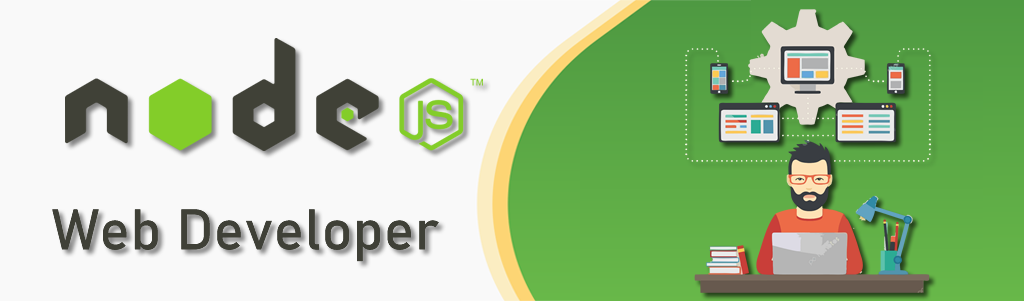
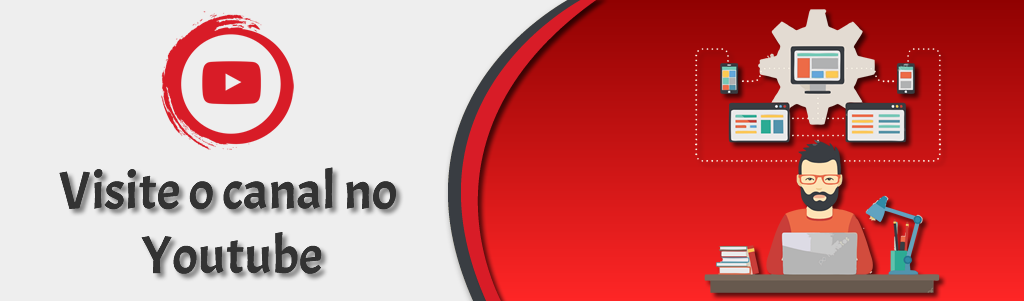
Nova Atualização

diff --git a/index - Copia.html b/index - Copia.html
@@ -1,0 +1,174 @@
+<!DOCTYPE html>
+<html lang="en"> 
+<head>
+    <title>Daniel Correia - Site Oficial</title>
+    
+    <!-- Meta -->
+    <meta charset="utf-8">
+    <meta http-equiv="X-UA-Compatible" content="IE=edge">
+    <meta name="viewport" content="width=device-width, initial-scale=1.0">
+    <meta name="description" content="Blog Template">
+    <meta name="author" content="Xiaoying Riley at 3rd Wave Media">    
+	<link rel="shortcut icon" href="assets/images/profile.png"> 
+    
+    <!-- FontAwesome JS-->
+    <script defer src="https://use.fontawesome.com/releases/v5.7.1/js/all.js" integrity="sha384-eVEQC9zshBn0rFj4+TU78eNA19HMNigMviK/PU/FFjLXqa/GKPgX58rvt5Z8PLs7" crossorigin="anonymous"></script>
+    
+    <!-- Theme CSS -->  
+    <link id="theme-style" rel="stylesheet" href="assets/css/theme-1.css">
+
+</head> 
+
+<body>
+    
+    <header class="header text-center">	    
+        
+	    <nav class="navbar navbar-expand-lg navbar-dark" >
+           
+			<button class="navbar-toggler" type="button" data-toggle="collapse" data-target="#navigation" aria-controls="navigation" aria-expanded="false" aria-label="Toggle navigation">
+			<span class="navbar-toggler-icon"></span>
+			</button>
+
+			<div id="navigation" class="collapse navbar-collapse flex-column" >
+				<div class="profile-section pt-3 pt-lg-0">
+					<a href="" title="Canal no Youtube">
+						<img class="profile-image mb-3 rounded-circle mx-auto" src="assets/images/profile.png" alt="image" >			
+					</a>
+					
+					<div class="bio mb-3">
+						E ae Dev, Meu nome é Daniel. Bem vindo á minha página! Aqui compartilho um pouco da minha experiência com o mundo do código fonte. Fique a vontade para vasculhar o conteúdo!</div>
+					<ul class="social-list list-inline py-3 mx-auto">
+			            <li class="list-inline-item"><a href="#"><i class="fab fa-youtube fa-fw" title="Canal do Youtube"></i></a></li>
+						<li class="list-inline-item"><a href="#"><i class="fab fa-github-alt fa-fw" title="Repositório Github"></i></a></li>
+						<li class="list-inline-item"><a href="http://lattes.cnpq.br/4791966807723722" title="Currículo Lattes"><i class="fas fa-address-book fa-fw"></i></a></li>
+			        </ul><!--//social-list-->
+			        <hr> 
+				</div><!--//profile-section-->
+				
+				<ul class="navbar-nav flex-column text-left">
+					<li class="nav-item active">
+					    <a class="nav-link" href="index.html"><i class="fas fa-home fa-fw mr-2"></i>Home <span class="sr-only">(current)</span></a>
+					</li>
+					<li class="nav-item">
+					    <a class="nav-link" href="blog-post.html"><i class="fab fa-php fa-fw mr-2"></i>Codeigniter 2/4</a>
+					</li>
+					<li class="nav-item">
+					    <a class="nav-link" href="about.html"><i class="fab fa-node-js fa-fw mr-2"></i>NodeJS / ReactJS</a>
+					</li>
+				</ul>
+				
+			</div>
+		</nav>
+    </header>
+    
+    <div class="main-wrapper">
+	    <section class="cta-section theme-bg-light py-5">
+		    <div class="container text-center">
+			    <h2 class="heading">
+					Bem vindo à minha Página Web</h2>
+			    <div class="intro">
+					Inscreva-se também no meu canal no Youtube!</div>
+			    <img src="assets/images/capa.png" style="width: 100%;"/>
+		    </div><!--//container-->
+	    </section>
+	    <section class="blog-list px-3 py-5 p-md-5">
+		    <div class="container">
+			    <div class="item mb-5">
+				    <div class="media">
+					    <img class="mr-3 img-fluid post-thumb d-none d-md-flex" src="assets/images/blog/blog-post-thumb-1.jpg" alt="image">
+					    <div class="media-body">
+						    <h3 class="title mb-1"><a href="blog-post.html">Why Every Developer Should Have A Blog</a></h3>
+						    <div class="meta mb-1"><span class="date">Published 2 days ago</span><span class="time">5 min read</span><span class="comment"><a href="#">8 comments</a></span></div>
+						    <div class="intro">Lorem ipsum dolor sit amet, consectetuer adipiscing elit. Aenean commodo ligula eget dolor. Aenean massa. Cum sociis natoque penatibus et magnis dis parturient montes, nascetur ridiculus mus. Donec quam felis, ultricies...</div>
+						    <a class="more-link" href="blog-post.html">Read more &rarr;</a>
+					    </div><!--//media-body-->
+				    </div><!--//media-->
+			    </div><!--//item-->
+			    <div class="item mb-5">
+				    <div class="media">
+					    <img class="mr-3 img-fluid post-thumb d-none d-md-flex" src="assets/images/blog/blog-post-thumb-2.jpg" alt="image">
+					    <div class="media-body">
+						    <h3 class="title mb-1"><a href="blog-post.html">A Guide to Becoming a Full-Stack Developer</a></h3>
+						    <div class="meta mb-1"><span class="date">Published 3 months ago</span><span class="time">3 min read</span><span class="comment"><a href="#">26 comments</a></span></div>
+						    <div class="intro">Lorem ipsum dolor sit amet, consectetuer adipiscing elit. Aenean commodo ligula eget dolor. Aenean massa. Cum sociis natoque penatibus et magnis dis parturient montes, nascetur ridiculus mus. Donec quam felis, ultricies...</div>
+						    <a class="more-link" href="blog-post.html">Read more &rarr;</a>
+					    </div><!--//media-body-->
+				    </div><!--//media-->
+			    </div><!--//item-->
+			    
+			    <div class="item mb-5">
+				    <div class="media">
+					    <img class="mr-3 img-fluid post-thumb d-none d-md-flex" src="assets/images/blog/blog-post-thumb-3.jpg" alt="image">
+					    <div class="media-body">
+						    <h3 class="title mb-1"><a href="blog-post.html">High Performance JavaScript</a></h3>
+						    <div class="meta mb-1"><span class="date">Published 1 month ago</span><span class="time">8 min read</span><span class="comment"><a href="#">12 comments</a></span></div>
+						    <div class="intro">Lorem ipsum dolor sit amet, consectetuer adipiscing elit. Aenean commodo ligula eget dolor. Aenean massa. Cum sociis natoque penatibus et magnis dis parturient montes, nascetur ridiculus mus. Donec quam felis, ultricies...</div>
+						    <a class="more-link" href="blog-post.html">Read more &rarr;</a>
+					    </div><!--//media-body-->
+				    </div><!--//media-->
+			    </div><!--//item-->
+			    <div class="item mb-5">
+				    <div class="media">
+					    <img class="mr-3 img-fluid post-thumb d-none d-md-flex" src="assets/images/blog/blog-post-thumb-4.jpg" alt="image">
+					    <div class="media-body">
+						    <h3 class="title mb-1"><a href="blog-post.html">Top 5 JavaScript Frameworks</a></h3>
+						    <div class="meta mb-1"><span class="date">Published 2 months ago</span><span class="time">15 min read</span><span class="comment"><a href="#">3 comments</a></span></div>
+						    <div class="intro">Lorem ipsum dolor sit amet, consectetuer adipiscing elit. Aenean commodo ligula eget dolor. Aenean massa. Cum sociis natoque penatibus et magnis dis parturient montes, nascetur ridiculus mus. Donec quam felis, ultricies...</div>
+						    <a class="more-link" href="blog-post.html">Read more &rarr;</a>
+					    </div><!--//media-body-->
+				    </div><!--//media-->
+			    </div><!--//item-->
+			    
+			    <div class="item mb-5">
+				    <div class="media">
+					    <img class="mr-3 img-fluid post-thumb d-none d-md-flex" src="assets/images/blog/blog-post-thumb-5.jpg" alt="image">
+					    <div class="media-body">
+						    <h3 class="title mb-1"><a href="blog-post.html">Learn React in 24 Hours</a></h3>
+						    <div class="meta mb-1"><span class="date">Published 2 months ago</span><span class="time">10 min read</span><span class="comment"><a href="#">23 comments</a></span></div>
+						    <div class="intro">Lorem ipsum dolor sit amet, consectetuer adipiscing elit. Aenean commodo ligula eget dolor. Aenean massa. Cum sociis natoque penatibus et magnis dis parturient montes, nascetur ridiculus mus. Donec quam felis, ultricies...</div>
+						    <a class="more-link" href="blog-post.html">Read more &rarr;</a>
+					    </div><!--//media-body-->
+				    </div><!--//media-->
+			    </div><!--//item-->
+			    
+			    <div class="item">
+				    <div class="media">
+					    <img class="mr-3 img-fluid post-thumb d-none d-md-flex" src="assets/images/blog/blog-post-thumb-6.jpg" alt="image">
+					    <div class="media-body">
+						    <h3 class="title mb-1"><a href="blog-post.html">About Remote Working</a></h3>
+						    <div class="meta mb-1"><span class="date">Published 3 months ago</span><span class="time">2 min read</span><span class="comment"><a href="#">1 comment</a></span></div>
+						    <div class="intro">Lorem ipsum dolor sit amet, consectetuer adipiscing elit. Aenean commodo ligula eget dolor. Aenean massa. Cum sociis natoque penatibus et magnis dis parturient montes, nascetur ridiculus mus. Donec quam felis, ultricies...</div>
+						    <a class="more-link" href="blog-post.html">Read more &rarr;</a>
+					    </div><!--//media-body-->
+				    </div><!--//media-->
+			    </div><!--//item-->
+			    
+			    <nav class="blog-nav nav nav-justified my-5">
+				  <a class="nav-link-prev nav-item nav-link d-none rounded-left" href="#">Previous<i class="arrow-prev fas fa-long-arrow-alt-left"></i></a>
+				  <a class="nav-link-next nav-item nav-link rounded" href="blog-list.html">Next<i class="arrow-next fas fa-long-arrow-alt-right"></i></a>
+				</nav>
+				
+		    </div>
+	    </section>
+	    
+	    <footer class="footer text-center py-2 theme-bg-dark">
+		   
+	        <!--/* This template is released under the Creative Commons Attribution 3.0 License. Please keep the attribution link below when using for your own project. Thank you for your support. :) If you'd like to use the template without the attribution, you can buy the commercial license via our website: themes.3rdwavemedia.com */-->
+                <small class="copyright">Designed with <i class="fas fa-heart" style="color: #fb866a;"></i> by <a href="http://themes.3rdwavemedia.com" target="_blank">Xiaoying Riley</a> for developers</small>
+		   
+	    </footer>
+    
+    </div><!--//main-wrapper-->
+       
+    <!-- Javascript -->          
+    <script src="assets/plugins/jquery-3.3.1.min.js"></script>
+    <script src="assets/plugins/popper.min.js"></script> 
+    <script src="assets/plugins/bootstrap/js/bootstrap.min.js"></script> 
+
+    <!-- Style Switcher (REMOVE ON YOUR PRODUCTION SITE) -->
+    <script src="assets/js/demo/style-switcher.js"></script>     
+    
+
+</body>
+</html> 
+

diff --git a/index.html b/index.html
@@ -31,10 +31,11 @@
 
 			<div id="navigation" class="collapse navbar-collapse flex-column" >
 				<div class="profile-section pt-3 pt-lg-0">
-				    <img class="profile-image mb-3 rounded-circle mx-auto" src="assets/images/profile.png" alt="image" >			
+					
+						<img class="profile-image mb-3 rounded-circle mx-auto" src="assets/images/profile.png" alt="image" >			
 					
 					<div class="bio mb-3">
-						Olá, Meu nome é Daniel. Bem vindo á minha página! Aqui compartilho um pouco da minha experiência com o mundo do código fonte. Fique a vontade para vasculhar o conteúdo!</div>
+						E ae Dev, Meu nome é Daniel. Bem vindo á minha página! Aqui compartilho um pouco da minha experiência com o mundo do código fonte. Fique a vontade para vasculhar o conteúdo!</div>
 					<ul class="social-list list-inline py-3 mx-auto">
 			            <li class="list-inline-item"><a href="#"><i class="fab fa-youtube fa-fw" title="Canal do Youtube"></i></a></li>
 						<li class="list-inline-item"><a href="#"><i class="fab fa-github-alt fa-fw" title="Repositório Github"></i></a></li>
@@ -48,10 +49,10 @@
 					    <a class="nav-link" href="index.html"><i class="fas fa-home fa-fw mr-2"></i>Home <span class="sr-only">(current)</span></a>
 					</li>
 					<li class="nav-item">
-					    <a class="nav-link" href="blog-post.html"><i class="fas fa-bookmark fa-fw mr-2"></i>PHP (CodeIgniter)</a>
+					    <a class="nav-link" href="blog-post.html"><i class="fab fa-php fa-fw mr-2"></i>Codeigniter 2/4</a>
 					</li>
 					<li class="nav-item">
-					    <a class="nav-link" href="about.html"><i class="fas fa-user fa-fw mr-2"></i>JavaScript (MERN)</a>
+					    <a class="nav-link" href="about.html"><i class="fab fa-node-js fa-fw mr-2"></i>NodeJS / ReactJS</a>
 					</li>
 				</ul>
 				
@@ -63,22 +64,27 @@
 	    <section class="cta-section theme-bg-light py-5">
 		    <div class="container text-center">
 			    <h2 class="heading">
-					Bem vindo ao mundo do Código Fonte</h2>
+					Bem vindo à minha Página Web</h2>
 			    <div class="intro">
-					Bem vindo ao meu blog. Inscreva-se também no meu canal no Youtube!</div>
-			    <img src="assets/images/capa.png" style="width: 100%;"/>
+					Inscreva-se também no meu canal no Youtube!</div>
+				<a href="https://www.youtube.com/channel/UCVihCOx8gBCXI57wnbY3WIA?view_as=subscriber" title="Canal no Youtube">
+					<img src="assets/images/capa.png" style="width: 100%;margin-top:15px;"/>
+				</a>
 		    </div><!--//container-->
 	    </section>
 	    <section class="blog-list px-3 py-5 p-md-5">
 		    <div class="container">
 			    <div class="item mb-5">
 				    <div class="media">
+						
 					    <img class="mr-3 img-fluid post-thumb d-none d-md-flex" src="assets/images/blog/blog-post-thumb-1.jpg" alt="image">
 					    <div class="media-body">
-						    <h3 class="title mb-1"><a href="blog-post.html">Why Every Developer Should Have A Blog</a></h3>
-						    <div class="meta mb-1"><span class="date">Published 2 days ago</span><span class="time">5 min read</span><span class="comment"><a href="#">8 comments</a></span></div>
-						    <div class="intro">Lorem ipsum dolor sit amet, consectetuer adipiscing elit. Aenean commodo ligula eget dolor. Aenean massa. Cum sociis natoque penatibus et magnis dis parturient montes, nascetur ridiculus mus. Donec quam felis, ultricies...</div>
-						    <a class="more-link" href="blog-post.html">Read more &rarr;</a>
+						    <h3 class="title mb-1"><a href="blog-post.html">Artigos sobre Codeigniter 2 e 4</a></h3>
+						    <div class="intro">
+								O CodeIgniter é um Framework de Desenvolvimento de Aplicativos - um kit de ferramentas - para pessoas que constroem sites usando PHP. Seu objetivo é permitir que você desenvolva projetos muito mais rapidamente do que se estivesse escrevendo código do zero, fornecendo um rico conjunto de bibliotecas para tarefas normalmente necessárias, além de uma interface simples e estrutura lógica para acessar essas bibliotecas. O CodeIgniter permite que você se concentre criativamente no seu projeto, minimizando a quantidade de código necessária para uma determinada tarefa.
+
+							</div>
+						    <a class="more-link" href="blog-post.html">Veja as postagens &rarr;</a>
 					    </div><!--//media-body-->
 				    </div><!--//media-->
 			    </div><!--//item-->
@@ -86,64 +92,16 @@
 				    <div class="media">
 					    <img class="mr-3 img-fluid post-thumb d-none d-md-flex" src="assets/images/blog/blog-post-thumb-2.jpg" alt="image">
 					    <div class="media-body">
-						    <h3 class="title mb-1"><a href="blog-post.html">A Guide to Becoming a Full-Stack Developer</a></h3>
-						    <div class="meta mb-1"><span class="date">Published 3 months ago</span><span class="time">3 min read</span><span class="comment"><a href="#">26 comments</a></span></div>
-						    <div class="intro">Lorem ipsum dolor sit amet, consectetuer adipiscing elit. Aenean commodo ligula eget dolor. Aenean massa. Cum sociis natoque penatibus et magnis dis parturient montes, nascetur ridiculus mus. Donec quam felis, ultricies...</div>
-						    <a class="more-link" href="blog-post.html">Read more &rarr;</a>
+						    <h3 class="title mb-1"><a href="blog-post.html">Artigos sobre NodeJS, ReactJS e MongoDB</a></h3>
+						    <div class="intro">O MEAN é uma pilha de software JavaScript gratuita e de código aberto para a criação de sites e aplicativos dinâmicos. Como todos os componentes da pilha MEAN oferecem suporte a programas gravados em JavaScript, os aplicativos MEAN podem ser gravados em um idioma para os ambientes de execução do servidor e do cliente. </div>
+						    <a class="more-link" href="blog-post.html">Veja as postagens &rarr;</a>
 					    </div><!--//media-body-->
 				    </div><!--//media-->
 			    </div><!--//item-->
 			    
-			    <div class="item mb-5">
-				    <div class="media">
-					    <img class="mr-3 img-fluid post-thumb d-none d-md-flex" src="assets/images/blog/blog-post-thumb-3.jpg" alt="image">
-					    <div class="media-body">
-						    <h3 class="title mb-1"><a href="blog-post.html">High Performance JavaScript</a></h3>
-						    <div class="meta mb-1"><span class="date">Published 1 month ago</span><span class="time">8 min read</span><span class="comment"><a href="#">12 comments</a></span></div>
-						    <div class="intro">Lorem ipsum dolor sit amet, consectetuer adipiscing elit. Aenean commodo ligula eget dolor. Aenean massa. Cum sociis natoque penatibus et magnis dis parturient montes, nascetur ridiculus mus. Donec quam felis, ultricies...</div>
-						    <a class="more-link" href="blog-post.html">Read more &rarr;</a>
-					    </div><!--//media-body-->
-				    </div><!--//media-->
-			    </div><!--//item-->
-			    <div class="item mb-5">
-				    <div class="media">
-					    <img class="mr-3 img-fluid post-thumb d-none d-md-flex" src="assets/images/blog/blog-post-thumb-4.jpg" alt="image">
-					    <div class="media-body">
-						    <h3 class="title mb-1"><a href="blog-post.html">Top 5 JavaScript Frameworks</a></h3>
-						    <div class="meta mb-1"><span class="date">Published 2 months ago</span><span class="time">15 min read</span><span class="comment"><a href="#">3 comments</a></span></div>
-						    <div class="intro">Lorem ipsum dolor sit amet, consectetuer adipiscing elit. Aenean commodo ligula eget dolor. Aenean massa. Cum sociis natoque penatibus et magnis dis parturient montes, nascetur ridiculus mus. Donec quam felis, ultricies...</div>
-						    <a class="more-link" href="blog-post.html">Read more &rarr;</a>
-					    </div><!--//media-body-->
-				    </div><!--//media-->
-			    </div><!--//item-->
-			    
-			    <div class="item mb-5">
-				    <div class="media">
-					    <img class="mr-3 img-fluid post-thumb d-none d-md-flex" src="assets/images/blog/blog-post-thumb-5.jpg" alt="image">
-					    <div class="media-body">
-						    <h3 class="title mb-1"><a href="blog-post.html">Learn React in 24 Hours</a></h3>
-						    <div class="meta mb-1"><span class="date">Published 2 months ago</span><span class="time">10 min read</span><span class="comment"><a href="#">23 comments</a></span></div>
-						    <div class="intro">Lorem ipsum dolor sit amet, consectetuer adipiscing elit. Aenean commodo ligula eget dolor. Aenean massa. Cum sociis natoque penatibus et magnis dis parturient montes, nascetur ridiculus mus. Donec quam felis, ultricies...</div>
-						    <a class="more-link" href="blog-post.html">Read more &rarr;</a>
-					    </div><!--//media-body-->
-				    </div><!--//media-->
-			    </div><!--//item-->
-			    
-			    <div class="item">
-				    <div class="media">
-					    <img class="mr-3 img-fluid post-thumb d-none d-md-flex" src="assets/images/blog/blog-post-thumb-6.jpg" alt="image">
-					    <div class="media-body">
-						    <h3 class="title mb-1"><a href="blog-post.html">About Remote Working</a></h3>
-						    <div class="meta mb-1"><span class="date">Published 3 months ago</span><span class="time">2 min read</span><span class="comment"><a href="#">1 comment</a></span></div>
-						    <div class="intro">Lorem ipsum dolor sit amet, consectetuer adipiscing elit. Aenean commodo ligula eget dolor. Aenean massa. Cum sociis natoque penatibus et magnis dis parturient montes, nascetur ridiculus mus. Donec quam felis, ultricies...</div>
-						    <a class="more-link" href="blog-post.html">Read more &rarr;</a>
-					    </div><!--//media-body-->
-				    </div><!--//media-->
-			    </div><!--//item-->
-			    
+			   
 			    <nav class="blog-nav nav nav-justified my-5">
-				  <a class="nav-link-prev nav-item nav-link d-none rounded-left" href="#">Previous<i class="arrow-prev fas fa-long-arrow-alt-left"></i></a>
-				  <a class="nav-link-next nav-item nav-link rounded" href="blog-list.html">Next<i class="arrow-next fas fa-long-arrow-alt-right"></i></a>
+				  <a class="nav-link-next nav-item nav-link rounded" href="blog-list.html">OUTROS ARTIGOS<i class="arrow-next fas fa-long-arrow-alt-right"></i></a>
 				</nav>
 				
 		    </div>
